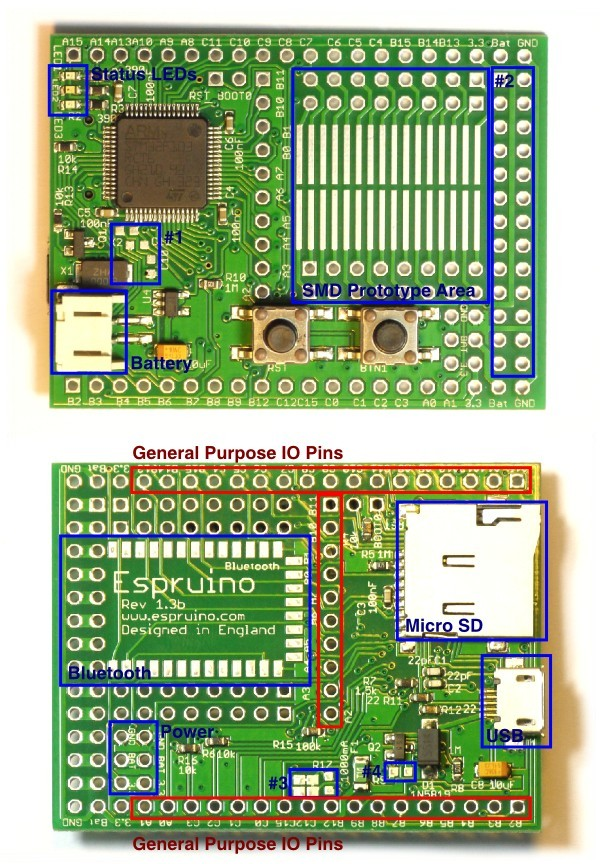
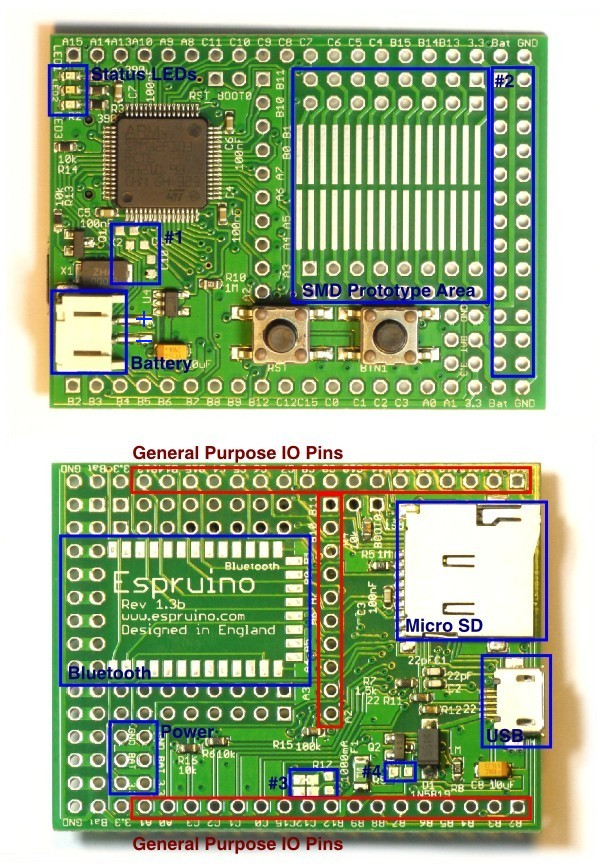
battery info

Changed region(s): [[0.21, 0.3438, 0.27, 0.4062]]

diff --git a/devices/EspruinoBoard.md b/devices/EspruinoBoard.md
@@ -16,7 +16,7 @@ Features
 * 256KB of Flash memory, 48KB of RAM
 * Micro USB connector
 * Input Voltage Range of 3.6v to 15v
-* Battery connector (JST PHR-2 2 Pin)
+* [[Battery]] connector (JST PHR-2 2 Pin)
 * Built-in SD card connector
 * Red, Green and Blue LEDs
 * Pads to allow HC-05 Bluetooth modules to be added
@@ -36,9 +36,9 @@ Layout
 | Status LEDs | Red, Green and Blue lights, controllable from Espruino. Access these using the pin names ```LED1``` (red), ```LED2``` (green) and ```LED3``` (blue) |
 | Buttons | Below SMD prototype area. Reset button (left) and general purpose button (right). Access this using the pin name ```BTN``` |
 | SMD Prototype Area | Area that allows you to solder SMD Integrated Circuits such as ([ULN2003](/datasheets/ULN2003.pdf)) and ([L293D](/datasheets/L293D.pdf)) |
-| Battery | Battery connector, allows any voltage from 3.6v to 15v |
+| [[Battery]] | Battery connector, allows any voltage from 3.6v to 15v |
 | Bluetooth | Pads for mounting a [[Bluetooth]] module |
-| Power | Gnd, 3.3v and Battery power pins |
+| Power | Gnd, 3.3v and Battery power pins (see below) |
 | Micro SD | A connector for FAT32 formatted Micro SD cards |
 | USB | A Micro SD USB connector, for programming and powering Espruino |
 | #1 | Unpopulated pads for 32kHz crystal. Without this, Espruino will use its internal RC oscillator for timekeeping, which is only accurate to 1-2% |
@@ -65,9 +65,9 @@ Links to tutorials that you can do using **just** the Espruino board:
 Power
 ----
 
-Espruino has 3 ways of powering it - a JST PHR-2 battery connector, Micro USB, or pin headers.
+Espruino has 3 ways of powering it - a JST PHR-2 [[Battery]] connector, Micro USB, or pin headers.
 
-Both the Micro USB and battery connector can power the device (and pin headers), and the source of power will be automatically switched. If you power Espruino via the Pin Headers, do not plug a battery in, and do not plug in USB unless you are powering it with 5v or more.
+Both the Micro USB and [[Battery]] connector can power the device (and pin headers), and the source of power will be automatically switched. If you power Espruino via the Pin Headers, do not plug a battery in, and do not plug in USB unless you are powering it with 5v or more.
 
 If you wish to power Espruino from mains, we'd suggest using a Micro USB phone charger. This are widely available as the majority of mobile phones (with the exception of iPhones and low-end Nokias) now use them.
 
@@ -90,6 +90,10 @@ There's a [[Pin Strip]] page covering how to solder Pin Strip onto the Espruino 
 You can usually buy batteries with the 2 pin female JST (PHR-2) connector ready-soldered, see [[Battery]].
 
 If you wish to buy the battery connector, you can do it from Farnell ([pins](http://uk.farnell.com/jst-japan-solderless-terminals/sph-002t-p0-5s/contact-loose-piece-0-05-0-22mm/dp/3617210) and [shroud](http://uk.farnell.com/jst-japan-solderless-terminals/phr-2/housing-2way-2mm/dp/3616186))
+
+The wiring is as follows:
+
+![JST wiring](jst.jpg)
 
 ### Servo Motors
 

diff --git a/devices/Battery.md b/devices/Battery.md
@@ -10,6 +10,8 @@ The Ultimate Espruino kits come with a [1400mAh Lithium Polymer battery](https:/
 
 If you don't have one of these, the Espruino boards come with a JST PHR-2 2 Pin connector for batteries, so you can buy either the battery we included (link below), find another, or buy the battery connector (see [[EspruinoBoard]]) and connect a different type of battery.
 
+![JST wiring](jst.jpg)
+
 Espruino itself will run from a wide range of voltages (3.6v to 15v) and hence batteries. Some types of small batteries that could be used are:
 
 * Replacement phone batteries (~3.7v)
